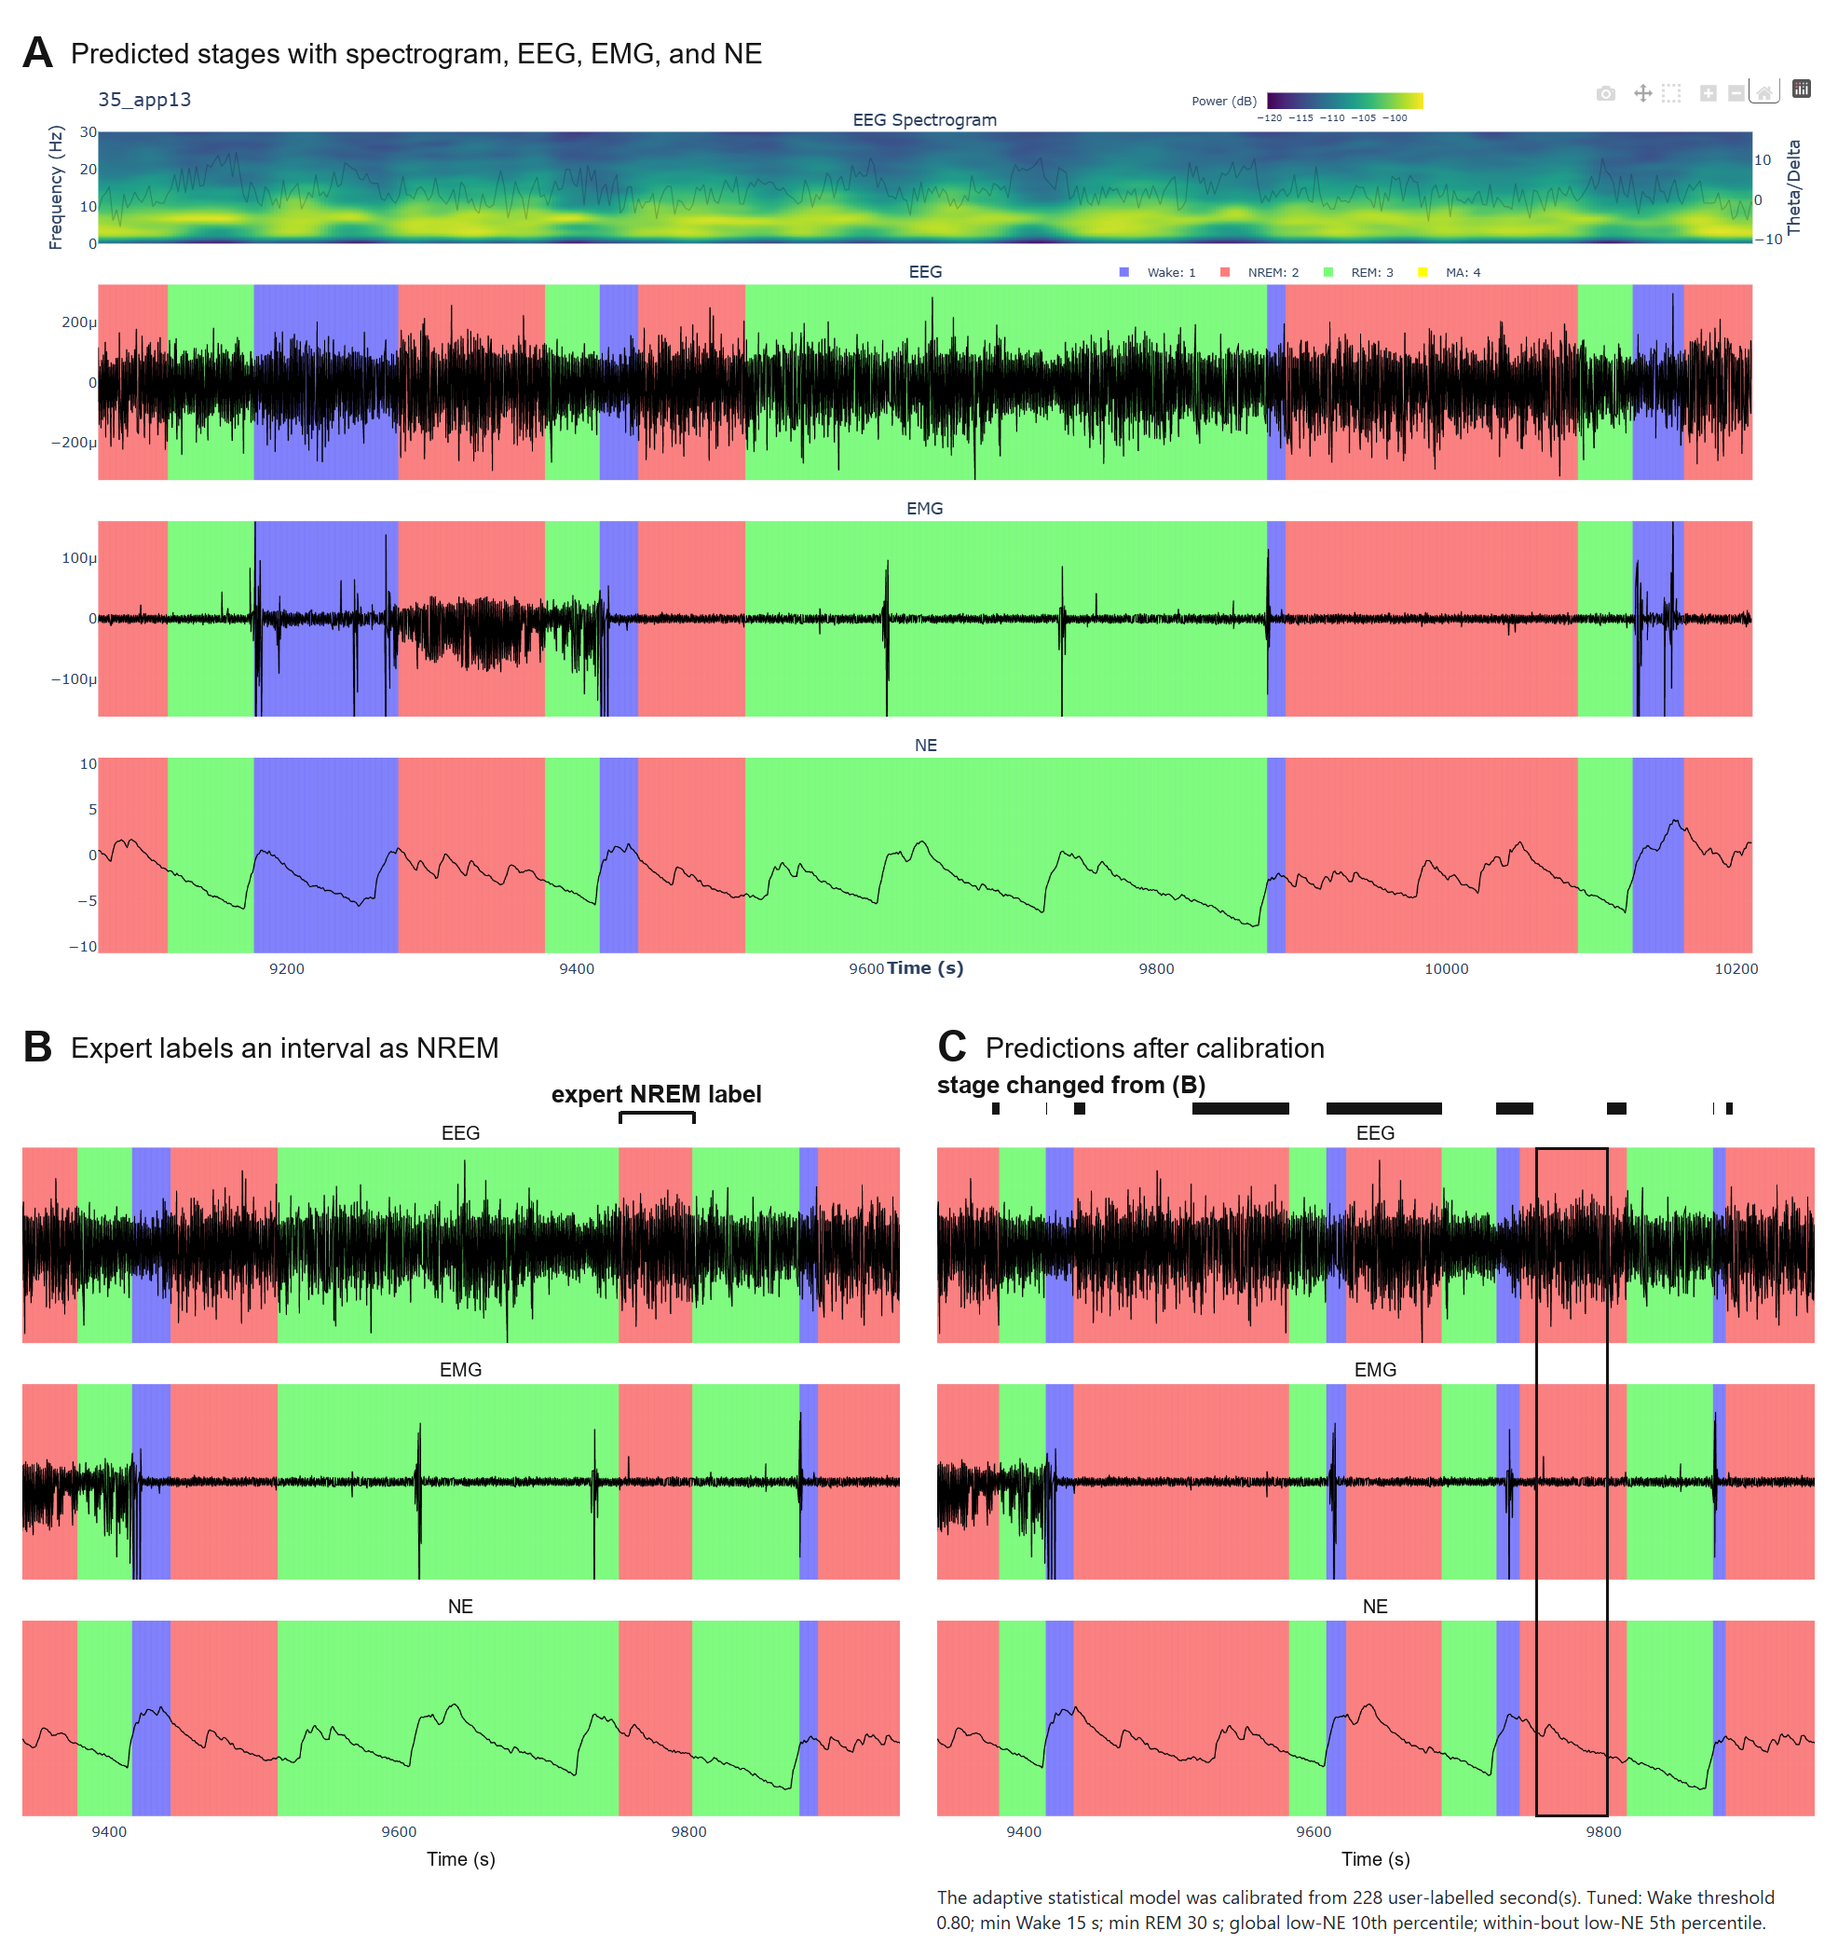
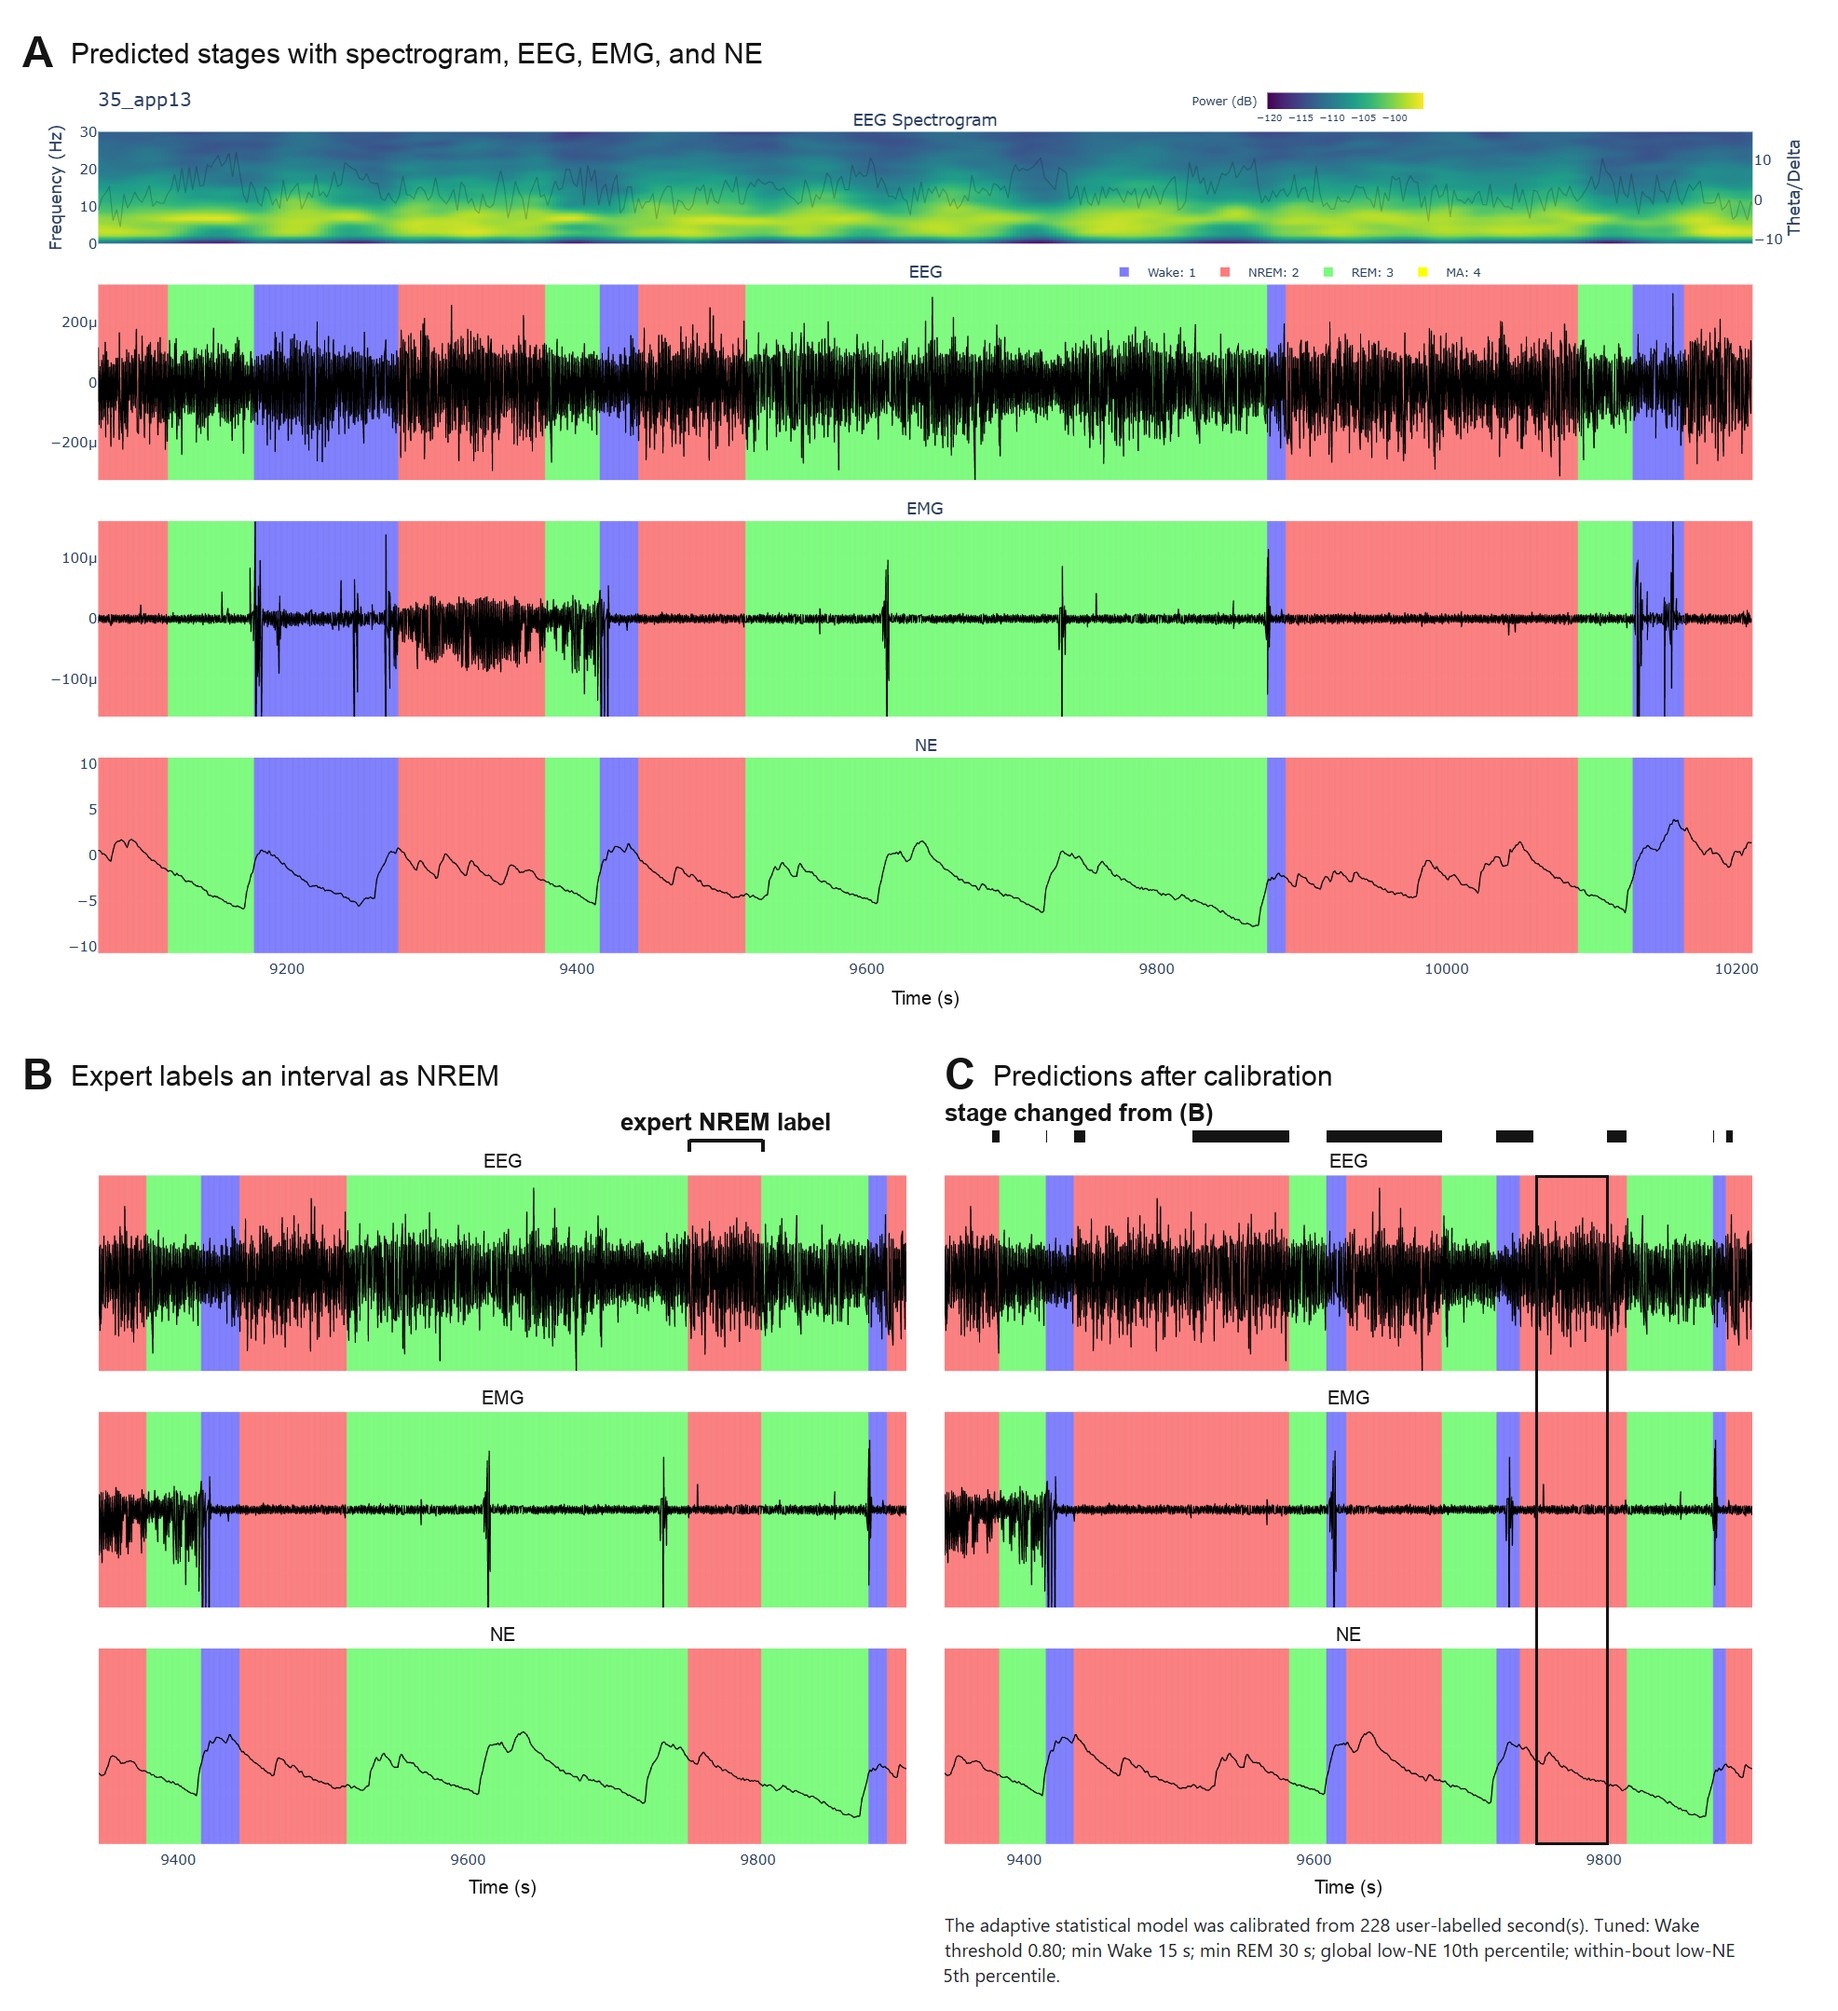
Align Figure 1 rows and equalize Figure 2 panel heights
Size the zoomed panels from the overview's plot area so both rows of
Figure 1 share plot edges, remove the captured hover toolbar and the
axis-title collision in panel A, and scale the video dialog so Figure 2's
panels have equal height with aspect ratios kept.

diff --git a/paper/figures/build_figures.py b/paper/figures/build_figures.py
@@ -21,20 +21,26 @@ PX_PER_S = (610.5 - TIME_ANCHOR_X) / 200.0
 ROW_SHIFT = {"before": 0, "after": -2, "selected": 1}
 PLOT_TOP, PLOT_BOTTOM = 316, 1034
 ZOOM_TOP, ZOOM_BOTTOM = 286, 1070
+WHITE = (255, 255, 255)
+INK = (20, 20, 20)
+GAP = 40
+PLOT_LEFT, PLOT_RIGHT = 97, 1872  # overlay columns shared by every snapshot
+OVERVIEW_BOX = (15, 95, 1940, 1072)
+AXIS_TITLE_BOX = (943, 1038, 1031, 1066)  # "Time (s)", level with the ticks
+MODEBAR_BOX = (1690, 95, 1940, 125)  # Plotly hover toolbar in the overview
 
-# Window shared by the zoomed panels; covers every prediction change near
-# the expert label.
-ZOOM_START_S, ZOOM_END_S = 9340.0, 9945.0
+# B and C together span exactly the overview's plot width, so both rows of
+# Figure 1 share left and right plot edges. The window still covers every
+# prediction change near the expert label (about 9378-9888 s).
+ZOOM_WIDTH_PX = (PLOT_RIGHT - PLOT_LEFT - GAP) // 2
+ZOOM_GAP = PLOT_RIGHT - PLOT_LEFT - 2 * ZOOM_WIDTH_PX
+ZOOM_START_S = 9345.0
 VIDEO_START_S, VIDEO_END_S = 9070.0, 9675.0
 LABEL_START_S, LABEL_END_S = 9752.0, 9802.0
 SELECT_START_S, SELECT_END_S = 9176.0, 9272.0
 
 # Stage colors as rendered in the score overlay.
 STAGES = {"Wake": (128, 128, 255), "NREM": (255, 128, 128), "REM": (128, 255, 128)}
-
-WHITE = (255, 255, 255)
-INK = (20, 20, 20)
-GAP = 40
 
 
 def font(size, bold=False):
@@ -63,10 +69,16 @@ def x_of(t):
     return round(TIME_ANCHOR_X + (t - TIME_ANCHOR_S) * PX_PER_S)
 
 
-def zoom_crop(img, layout, start=ZOOM_START_S, end=ZOOM_END_S):
+def axis_title(width, center):
+    strip = Image.new("RGB", (width, 30), WHITE)
+    ImageDraw.Draw(strip).text((center, 2), "Time (s)", anchor="mt", fill=INK, font=font(20))
+    return strip
+
+
+def zoom_crop(img, layout, start=ZOOM_START_S, width=ZOOM_WIDTH_PX):
     shift = ROW_SHIFT[layout]
     x0 = x_of(start)
-    crop = img.crop((x0, ZOOM_TOP + shift, x_of(end), ZOOM_BOTTOM + shift))
+    crop = img.crop((x0, ZOOM_TOP + shift, x0 + width, ZOOM_BOTTOM + shift))
     draw = ImageDraw.Draw(crop)
     # Re-centre subplot titles in the crops; the overview keeps the original
     # titles and full stage legend. Only inter-plot whitespace is replaced.
@@ -74,16 +86,15 @@ def zoom_crop(img, layout, start=ZOOM_START_S, end=ZOOM_END_S):
         draw.rectangle((0, y0 - ZOOM_TOP, crop.width, y1 - ZOOM_TOP), fill=WHITE)
         draw.text((crop.width / 2, y0 - ZOOM_TOP + 7), title, anchor="mt", fill=INK, font=font(20))
     # Keep the screenshot's tick values and place a common axis title below.
-    draw.rectangle((943 - x0, 1038 - ZOOM_TOP, 1031 - x0, 1066 - ZOOM_TOP), fill=WHITE)
-    axis = Image.new("RGB", (crop.width, 30), WHITE)
-    ImageDraw.Draw(axis).text((crop.width / 2, 2), "Time (s)", anchor="mt", fill=INK, font=font(20))
-    return stack(crop, axis)
+    l, t, r, b = AXIS_TITLE_BOX
+    draw.rectangle((l - x0, t - ZOOM_TOP, r - x0, b - ZOOM_TOP), fill=WHITE)
+    return stack(crop, axis_title(crop.width, crop.width / 2))
 
 
 def stage_row(img, layout, y=885):
     """Stage per pixel column of the zoom window, read from a trace-free row."""
     a = np.asarray(img).astype(int)[y + ROW_SHIFT[layout]]
-    a = a[x_of(ZOOM_START_S) : x_of(ZOOM_END_S)]
+    a = a[x_of(ZOOM_START_S) : x_of(ZOOM_START_S) + ZOOM_WIDTH_PX]
     colors = np.array(list(STAGES.values()))
     dist = np.abs(a[:, None, :] - colors[None, :, :]).sum(2)
     return dist.argmin(1)
@@ -140,11 +151,11 @@ def side_by_side(*parts, gap=GAP):
     return out
 
 
-def with_header(panel, letter, title, extra=0):
-    """Add a panel letter and short title above a panel."""
+def with_header(panel, letter, title, extra=0, indent=0):
+    """Add a panel letter and short title above a panel indented by indent."""
     head = 60 + extra
-    out = Image.new("RGB", (panel.width, panel.height + head), WHITE)
-    out.paste(panel, (0, head))
+    out = Image.new("RGB", (indent + panel.width, panel.height + head), WHITE)
+    out.paste(panel, (indent, head))
     d = ImageDraw.Draw(out)
     d.text((0, 6), letter, fill=INK, font=font(46, bold=True))
     d.text((52, 16), title, fill=INK, font=font(30))
@@ -172,8 +183,15 @@ def figure1():
     labeled = load("app_figure_correction.png")
     after = load("app_figure_after_correction.png")
 
-    # A: interface overview without window chrome or file controls.
-    overview = before.crop((15, 95, 1940, 1072))
+    # A: interface overview without window chrome, file controls, or the
+    # hover toolbar; the axis title moves below the ticks it overlapped.
+    overview = before.crop(OVERVIEW_BOX)
+    ox, oy = OVERVIEW_BOX[:2]
+    draw = ImageDraw.Draw(overview)
+    for l, t, r, b in (MODEBAR_BOX, AXIS_TITLE_BOX):
+        draw.rectangle((l - ox, t - oy, r - ox, b - oy), fill=WHITE)
+    plot_center = (PLOT_LEFT + PLOT_RIGHT) / 2 - ox
+    overview = stack(overview, axis_title(overview.width, plot_center))
     panel_a, _ = with_header(overview, "A", "Predicted stages with spectrogram, EEG, EMG, and NE")
 
     # B and C: matching time windows of the EEG, EMG, and NE rows.
@@ -184,14 +202,18 @@ def figure1():
     body_b = zoom_b
     body_c = stack(zoom_c, msg_c, gap=8)
 
-    panel_b, head_b = with_header(body_b, "B", "Expert labels an interval as NREM", extra=50)
+    # B starts at A's left plot edge while its letter stays under A's.
+    indent = PLOT_LEFT - ox
+    panel_b, head_b = with_header(
+        body_b, "B", "Expert labels an interval as NREM", extra=50, indent=indent
+    )
     panel_c, head_c = with_header(body_c, "C", "Predictions after calibration", extra=50)
 
     # Callouts: the expert interval in B and C, and where C changed from B.
     label_x0 = x_of(LABEL_START_S) - x_of(ZOOM_START_S)
     label_x1 = x_of(LABEL_END_S) - x_of(ZOOM_START_S)
     db = ImageDraw.Draw(panel_b)
-    bracket(db, label_x0, label_x1, head_b - 8, "expert NREM label")
+    bracket(db, indent + label_x0, indent + label_x1, head_b - 8, "expert NREM label")
 
     changed = stage_row(labeled, "before") != stage_row(after, "after")
     dc = ImageDraw.Draw(panel_c)
@@ -202,7 +224,7 @@ def figure1():
     dc.text((0, bar_y - 34), "stage changed from (B)", fill=INK, font=font(26, bold=True))
     outline_rows(dc, label_x0, label_x1, head_c)
 
-    bottom_row = side_by_side(panel_b, panel_c)
+    bottom_row = side_by_side(panel_b, panel_c, gap=ZOOM_GAP)
     fig = stack(panel_a, bottom_row, gap=30)
     return pad(fig)
 
@@ -211,7 +233,9 @@ def figure2():
     selected = load("app_figure_right_click_select.png")
     video = load("app_figure_video.png")
 
-    zoom = zoom_crop(selected, "selected", VIDEO_START_S, VIDEO_END_S)
+    zoom = zoom_crop(
+        selected, "selected", VIDEO_START_S, x_of(VIDEO_END_S) - x_of(VIDEO_START_S)
+    )
     msg = wrap_strip(selected.crop((25, 1117, 1930, 1143)), zoom.width)
     body = stack(zoom, msg, gap=8)
     panel_a, head_a = with_header(body, "A", "Right-click selects a whole bout", extra=50)
@@ -219,10 +243,14 @@ def figure2():
     da = ImageDraw.Draw(panel_a)
     x0 = x_of(SELECT_START_S) - x_of(VIDEO_START_S)
     x1 = x_of(SELECT_END_S) - x_of(VIDEO_START_S)
-    bracket(da, x0 - 4, x1 + 4, head_a - 8, "selected bout, 9176-9272 s")
+    bracket(da, x0 - 4, x1 + 4, head_a - 8, "selected bout, 9176–9272 s")
     outline_rows(da, x0 - 2, x1 + 2, head_a)
 
+    # Scale the dialog (aspect ratio kept) so both panels have equal height.
     dialog = video.crop((481, 73, 1480, 1169))
+    dialog = dialog.resize(
+        (round(dialog.width * body.height / dialog.height), body.height), Image.LANCZOS
+    )
     panel_b, _ = with_header(dialog, "B", "Behavior clip for the selection", extra=50)
 
     return pad(side_by_side(panel_a, panel_b))

diff --git a/paper/figures/README.md b/paper/figures/README.md
@@ -23,14 +23,15 @@ python paper/figures/build_figures.py
 
 | Output | Contents |
 | --- | --- |
-| [`figure1_adaptation.png`](figure1_adaptation.png) | Overview (A) plus matching 9340–9945 s crops before (B) and after (C) calibration. C outlines the labeled interval, and black bars mark columns whose stage differs from B, computed from overlay colors. |
-| [`figure2_video_review.png`](figure2_video_review.png) | A 9070–9675 s crop with the right-clicked bout outlined (A) and the video dialog (B). |
+| [`figure1_adaptation.png`](figure1_adaptation.png) | Overview (A) plus matching 9345–9902 s crops before (B) and after (C) calibration; B and C together span exactly A's plot width, so both rows share plot edges. C outlines the labeled interval, and black bars mark columns whose stage differs from B, computed from overlay colors. |
+| [`figure2_video_review.png`](figure2_video_review.png) | A 9070–9675 s crop with the right-clicked bout outlined (A) and the video dialog (B), scaled with its aspect ratio kept so both panels have equal height. |
 
 The 1980-by-1202-pixel sources share the same horizontal axis; crops align
 to the 9200/9400 s tick centres (about 1.56 px/s). The post-calibration image
 is two pixels higher and the selection image one pixel lower. Zoomed panels
 retain the original tick values and signal pixels, recenter subplot titles,
-and add a common time-axis title; panel A keeps the full stage legend.
+and add a common time-axis title; panel A keeps the full stage legend, drops
+Plotly's hover toolbar, and moves its axis title below the ticks it overlapped.
 Screenshot messages are wrapped at word gaps. The cached label layer confirms
 the 228-second total, including the earlier Wake interval [2873, 3051) and
 the NREM correction [9752, 9802); the earlier Wake interval is outside the view.

diff --git a/treaty_docs/work_log.md b/treaty_docs/work_log.md
@@ -17,6 +17,21 @@ search older entries by date anchor rather than reading every archive.
 
 ## 2026-10-14
 
+### Figure layout alignment (Claude Code, Opus 5.5)
+
+- Figure 1: B and C are sized from the overview's plot area (97–1872 px):
+  each 867 px wide (9345–9902 s) with a 41 px gap, B indented so its plot
+  starts at A's plot edge while its letter stays under A's. The window still
+  covers every B→C change near the label (9378–9888 s); changes outside it
+  (9118–9276 s, 10090–10162 s) were outside the previous crop too.
+- Panel A blanks Plotly's hover toolbar (camera/pan/zoom icons captured in
+  the new snapshot) and moves "Time (s)" below the tick row, where it had
+  collided with the 9600 tick.
+- Figure 2: the video dialog is scaled (LANCZOS, aspect kept) to panel A's
+  body height, so both panels are equal in height; A stays wider.
+
+## 2026-10-14
+
 ### Integration delivery and refreshed PDF verified (Codex, GPT-6; effort/token budget not reported)
 
 - Pushed `fix/calibration-overfit` and `dev` at `370a46c`; pushed the
